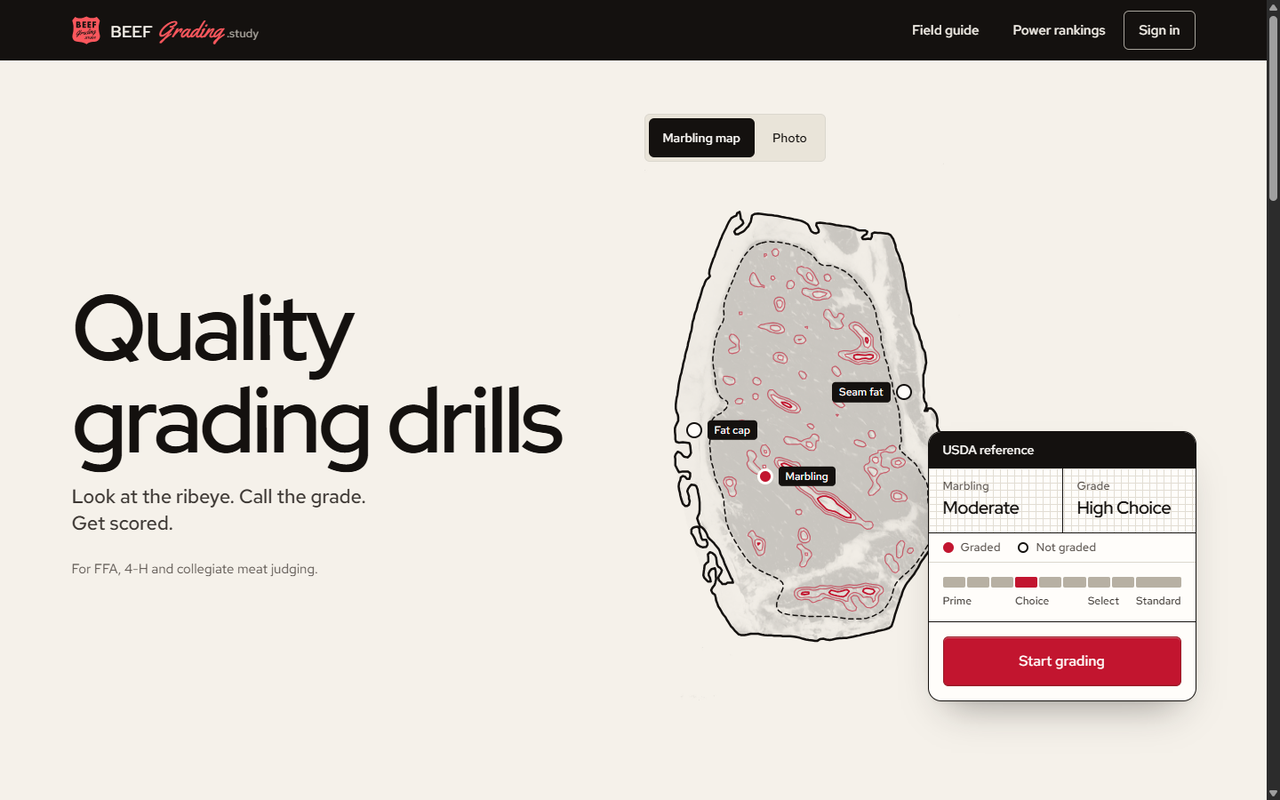
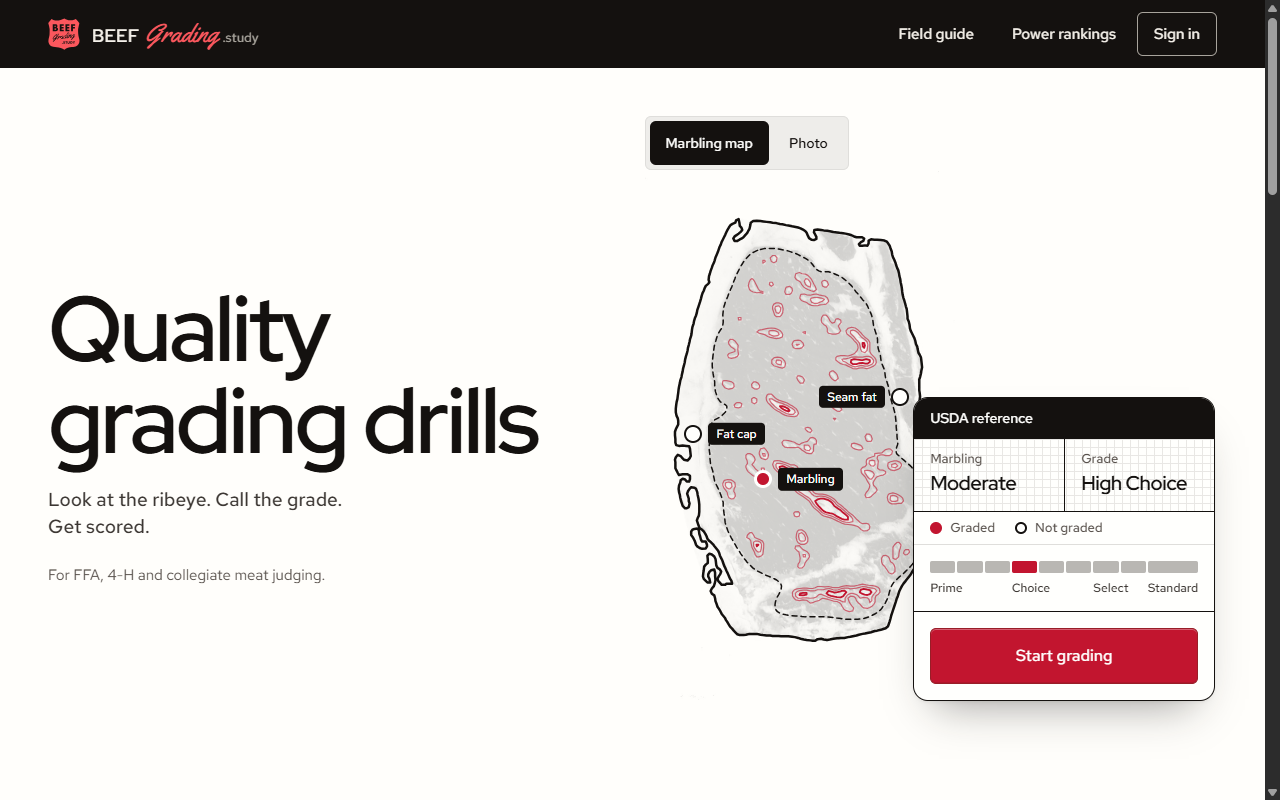
landing: white ground (paper tokens re-pointed to the v3 white values)
--paper = --ui-ground, --paper-deep = --ui-board, cards/sheet 99.9%, hairlines and
grid near-neutral. Field guide, auth, setup follow. Contrast: ink-faint on paper 7.70,
paper-card on red 6.11. README landing shot re-taken (1280x800).

diff --git a/beefgrading.study/style.css b/beefgrading.study/style.css
@@ -10,7 +10,7 @@
 /* ============================================================
    BEEF CARCASS GRADING DRILL - Stylesheet
    Design System: Furrow-derived (Hallmark theme, recomposed)
-   Warm manila paper · near-black ink · brand scarlet as a fill
+   White paper ground · near-black ink · brand scarlet as a fill
    Red Hat Display / Text / Mono · notebook card · moulded keys
    Green marks a correct call. (Replaces the earlier ROLLMARK
    print system; some older comments below still use its names.)
@@ -26,13 +26,14 @@
 
 /* ── Design Tokens ─────────────────────────────────────────── */
 :root {
-  /* paper - warm manila (Furrow). Existing token names are re-pointed so
-     every screen follows; nothing below the block carries a colour literal. */
-  --paper:      oklch(96% 0.011 85);    /* page bg - manila */
-  --paper-deep: oklch(92% 0.016 85);    /* recessed fills, hover, zero-feedback */
-  --paper-card: oklch(99.5% 0.005 85);  /* raised card surface (paper-2) */
-  --line:       oklch(88% 0.013 85);    /* hairline rules */
-  --line-heavy: oklch(76% 0.02 85);     /* resting borders on interactive tiles */
+  /* paper - neutral white ground, the same as the v3 app screens. Token names
+     keep the old paper vocabulary so every screen follows; nothing below the
+     block carries a colour literal. */
+  --paper:      oklch(99.6% 0.003 85);   /* page bg - white, = --ui-ground */
+  --paper-deep: oklch(94.5% 0.004 85);  /* recessed fills, = --ui-board, hover, zero-feedback */
+  --paper-card: oklch(99.9% 0.002 85);  /* raised card surface, edged by --line */
+  --line:       oklch(90% 0.004 85);    /* hairline rules */
+  --line-heavy: oklch(78% 0.006 85);    /* resting borders on interactive tiles */
 
   /* ink */
   --ink:        oklch(18% 0.006 60);    /* near-black */
@@ -51,9 +52,9 @@
      grid = the 8px notebook grid */
   --color-green:      oklch(48% 0.11 150);
   --color-green-soft: oklch(92% 0.04 150);
-  --color-sheet:      oklch(99.3% 0.004 85);
-  --color-grid:       oklch(90% 0.014 85);
-  --color-grid-strong: oklch(85% 0.018 85);
+  --color-sheet:      oklch(99.9% 0.002 85);
+  --color-grid:       oklch(93% 0.004 85);
+  --color-grid-strong: oklch(88% 0.005 85);
 
   /* stock-show blue - AWARD moments only (blue ribbon = 1st place) */
   --ribbon: oklch(52% 0.14 262);

diff --git a/beefgrading.study/docs/DESIGN.md b/beefgrading.study/docs/DESIGN.md
@@ -15,9 +15,10 @@ in a separate comp (`.hallmark/v3/comp-setup.html`) and is not described here.
 
 Tokens live in `style.css` `:root`, the single source of truth. Never a literal
 colour or font-family below it. **The landing page, hero and Power rankings
-scoreboard are kept as they are**: v3 tokens are new names (`--ui-*`); never
-repoint the landing tokens (`--paper`, `--band-*`, `--poster-*`, ...) or the
-`--lab-*` / `--sb-*` names they still use.
+scoreboard keep their layout**: v3 tokens are new names (`--ui-*`). The landing
+paper tokens (`--paper`, `--paper-deep`, `--paper-card`, `--line*`) are now the
+same white ground as the app screens (no manila); `--band-*`, `--poster-*`,
+`--lab-*` and `--sb-*` are unchanged.
 
 ## Materials
 - **Ground** `--ui-ground`: the screen. **Board** `--ui-board`: the page behind a
